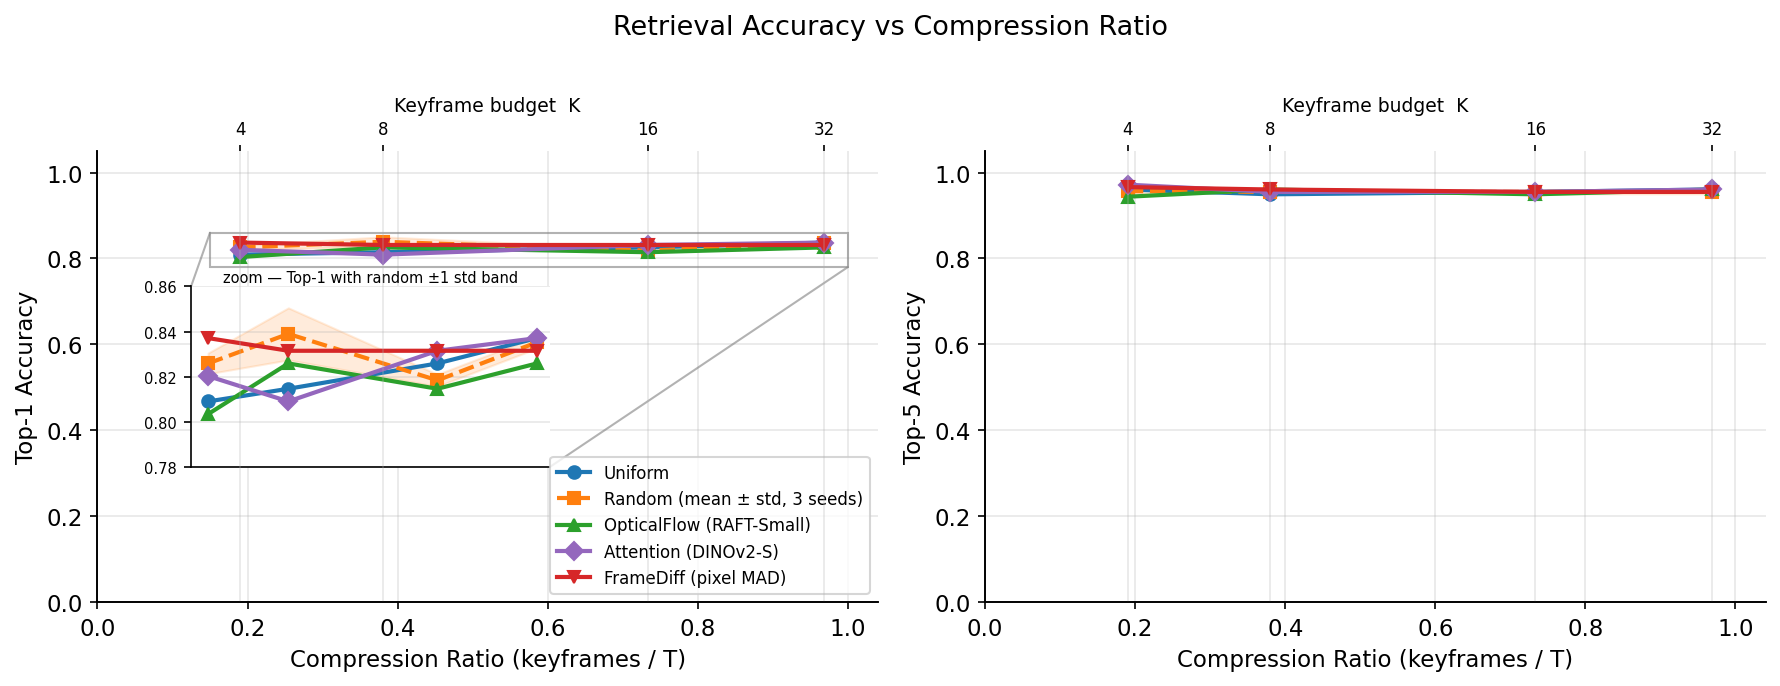
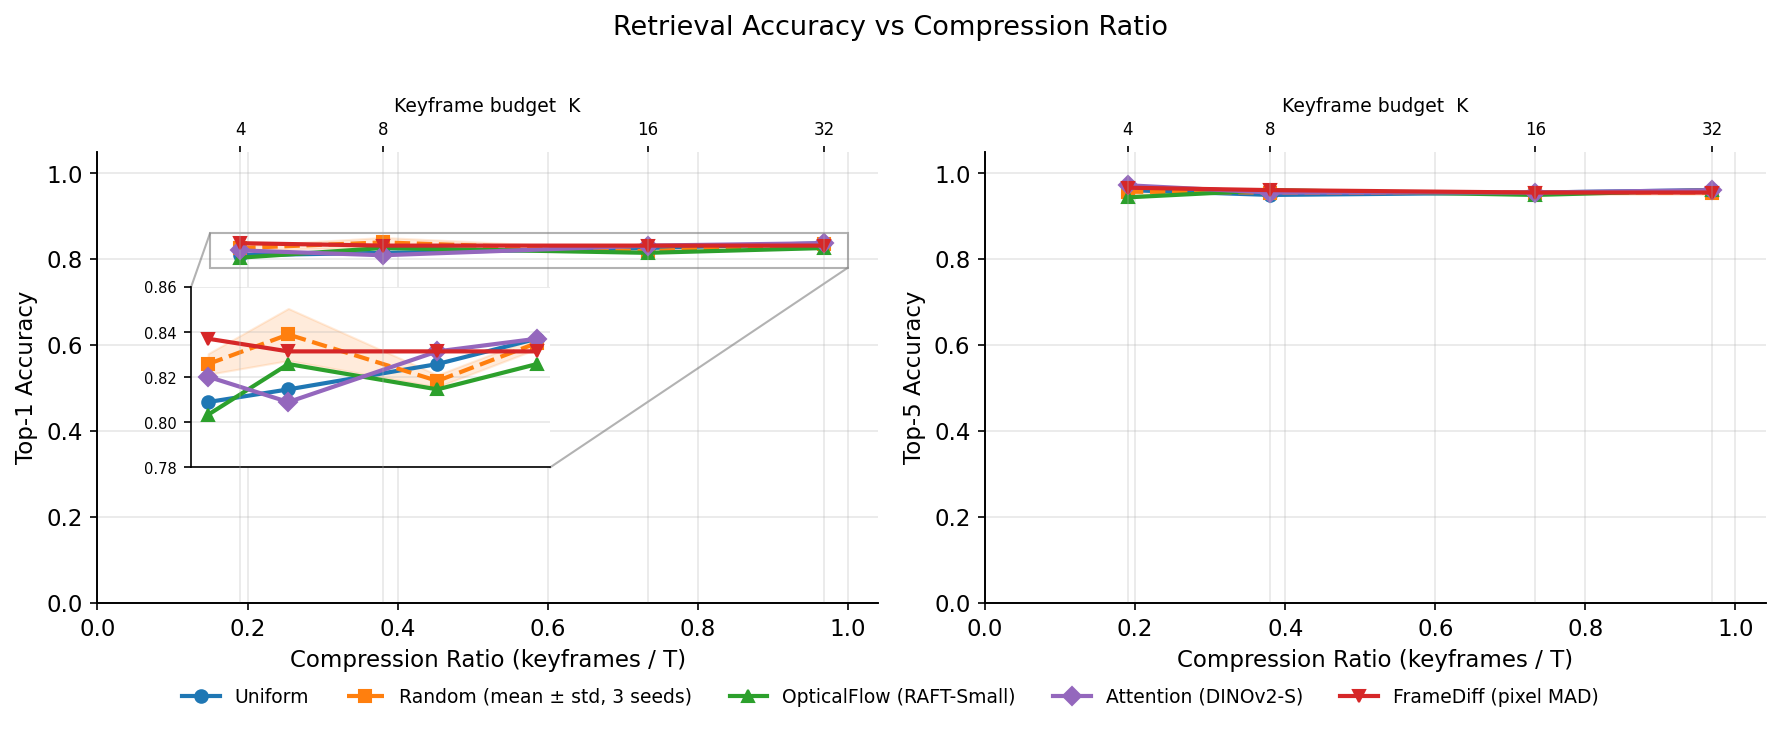
fig1: shared bottom legend + drop inset title (decluttering)
The per-axis legend collided with the Top-1 inset. Replace it with one
horizontal fig.legend below both panels (ncol=5), freeing both interiors and
removing the duplicate. Drop the inset's working-note title -- the figure
caption explains the zoom + random band. Cosmetic only; data unchanged.

diff --git a/scripts/plot_results.py b/scripts/plot_results.py
@@ -353,7 +353,6 @@ def _add_top1_inset(ax, curves: dict) -> None:
     axins.set_ylim(0.78, 0.86)
     axins.set_xticks([])
     axins.tick_params(axis="y", labelsize=7)
-    axins.set_title("zoom — Top-1 with random ±1 std band", fontsize=7, pad=2)
     axins.grid(True, alpha=0.3)
     ax.indicate_inset_zoom(axins, edgecolor="0.5", alpha=0.6)
 
@@ -377,8 +376,11 @@ def fig_accuracy_vs_cr(results: dict, out_dir: Path) -> None:
         _add_k_axis(ax, curves)
 
     _add_top1_inset(axes[0], curves)        # magnified view: methods vs random ±1 std
-    axes[0].legend(loc="lower right", fontsize=8)
     fig.tight_layout()
+    # one shared horizontal legend under both panels — frees the panel interiors
+    handles, labels = axes[0].get_legend_handles_labels()
+    fig.legend(handles, labels, loc="lower center", ncol=len(labels),
+               fontsize=9, bbox_to_anchor=(0.5, -0.04), frameon=False)
     _save(fig, out_dir, "fig1_accuracy_vs_cr")
 
 
